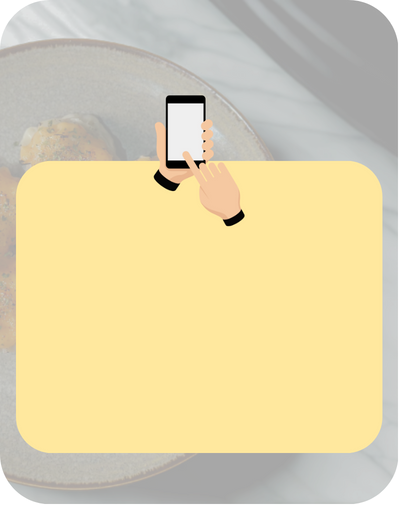
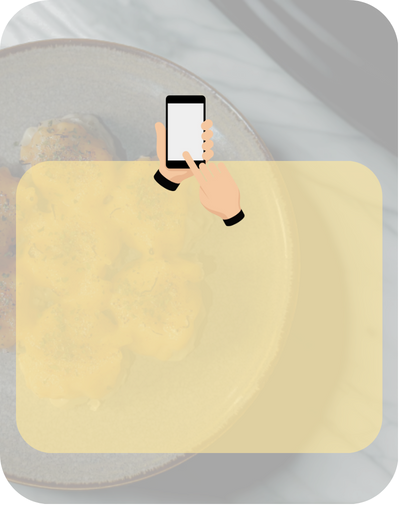
fix : Fix services section in mobile view

diff --git a/src/app/components/our-service/our-service.component.scss b/src/app/components/our-service/our-service.component.scss
@@ -1,19 +1,12 @@
-img {
-  max-width: 144px;
-  max-height: 98px;
-  margin: auto;
-}
-
 .service {
   display: flex;
   flex-direction: column;
   justify-content: flex-start;
   height: auto;
   min-height: 100vh;
-  padding: 4rem 1.5rem;
-  background: linear-gradient(180deg,
-    #fff3d9,
-    #fffdf9);
+  padding: 3rem 1.5rem; // DIUBAH: Padding atas sedikit dikurangi untuk mobile
+  background: linear-gradient(180deg, #fff3d9, #fffdf9);
+  box-sizing: border-box; // DITAMBAHKAN: Mencegah overflow karena padding
 }
 
 .service-title {
@@ -36,46 +29,54 @@ img {
 }
 
 .card-container {
-  display: flex;
+  display: flex; // DITAMBAHKAN: Untuk alignment box di dalamnya
   flex-direction: column;
-  //box-shadow: 0 4px 12px rgba(0,0,0,0.05);
+  justify-content: flex-end; // DITAMBAHKAN: Mendorong box ke bawah
+  align-items: center; // DITAMBAHKAN: Memusatkan box secara horizontal
   width: 100%;
   max-width: 399px;
-  height: 505px;
+  height: auto; // DIUBAH: Tinggi menjadi otomatis
+  aspect-ratio: 399 / 505; // DITAMBAHKAN: Menjaga rasio aspek kartu sesuai gambar
   border-radius: 12px;
-  padding: 2rem 1.5rem;
   text-align: center;
-  gap: 1rem;
-  justify-content: space-around;
-  align-items: center;
+  position: relative;
+  // Animasi scroll
   opacity: 0;
   transform: translateY(30px);
   transition: opacity 0.6s ease-out, transform 0.6s ease-out;
-  position: relative;
+}
+
+// Atur semua gambar latar agar terukur dengan benar
+.service-1, .service-2, .service-3 {
+  background-repeat: no-repeat;
+  background-size: contain; // DITAMBAHKAN: Pastikan seluruh gambar terlihat
+  background-position: center; // DITAMBAHKAN: Pusatkan gambar
 }
 
 .service-1 {
-  background: url(../../../assets/quality.png) no-repeat;
+  background-image: url(../../../assets/quality.png);
 }
 
 .service-2 {
-  background: url(../../../assets/mentai.png) no-repeat;
+  background-image: url(../../../assets/mentai.png);
 }
 
 .service-3 {
-  background: url(../../../assets/click.png) no-repeat;
+  background-image: url(../../../assets/click.png);
 }
 
 .card-box {
   display: flex;
   flex-direction: column;
+  min-height: 200px;
   align-items: center;
-  justify-content: center;
-  border-radius: 36px;
-  width: 369px;
-  height: 294px;
-  position: absolute;
-  bottom: 50px;
+  justify-content: flex-start;
+  border-radius: 24px; // DIUBAH: Sedikit penyesuaian
+  width: 90%; // DIUBAH: Lebar fleksibel, bukan fixed
+  height: auto; // DIUBAH: Tinggi otomatis menyesuaikan konten
+  padding: 1.5rem 1rem; // DITAMBAHKAN: Beri ruang untuk teks
+  position: relative; // DIUBAH: Posisi relatif, bukan absolut
+  bottom: 12%; // DIUBAH: Dorong sedikit ke atas dari dasar
 }
 
 .card-container.is-visible {
@@ -84,35 +85,53 @@ img {
 }
 
 .card-container .card-title {
-  font-size: 20px;
+  font-size: 1.1rem; // DIUBAH: Ukuran font disesuaikan untuk mobile
   font-weight: 700;
   color: var(--red);
-  margin-bottom: 14px;
+  margin-bottom: 0.75rem; // DIUBAH: Jarak disesuaikan
 }
 
 .card-container .card-description {
-  font-size: 15px;
+  font-size: 0.9rem; // DIUBAH: Ukuran font disesuaikan
   font-weight: 400;
   line-height: 1.6;
-  max-width: 250px;
-  height: 120px;
-  align-content: flex-start;
+  max-width: 100%; // DIUBAH: Lebar maksimal mengikuti parent
+  height: auto; // DIUBAH: Tinggi otomatis
 }
 
-@media (min-width: 576px) {
+// Media query untuk layar yang lebih besar
+@media (min-width: 768px) { // DIUBAH: Breakpoint digeser ke 768px untuk tablet
   .service {
     justify-content: center;
-    height: 100vh;
-    padding: 2rem;
+    // Hapus height 100vh agar tidak terpotong jika konten lebih tinggi
   }
 
   .service-content {
     flex-direction: row;
+    align-items: stretch; // DITAMBAHKAN: Membuat semua kartu sama tinggi
     justify-content: center;
     gap: 2rem;
   }
 
   .card-container {
     padding: 1.5rem;
+  }
+
+  .card-box {
+    width: 369px; // DIKEMBALIKAN: Nilai fixed untuk desktop
+    position: absolute; // DIKEMBALIKAN: Posisi absolut untuk desktop
+    padding: 0; // Hapus padding jika tidak diperlukan di desktop
+    background-color: transparent; // Hapus background di desktop
+    backdrop-filter: none;
+  }
+
+  .card-container .card-title {
+    font-size: 20px; // Kembalikan ukuran font desktop
+    margin-bottom: 14px;
+  }
+
+  .card-container .card-description {
+    font-size: 15px; // Kembalikan ukuran font desktop
+    max-width: 250px; // Kembalikan lebar maksimal desktop
   }
 }

diff --git a/src/app/app.component.html b/src/app/app.component.html
@@ -4,7 +4,7 @@
 </div>
 } @else {
 <app-header />
-<!--<app-our-service />-->
+<app-our-service />
 <!--<app-our-menu />-->
 <!--<app-customer-feedback />-->
 <!--<app-galery />-->
